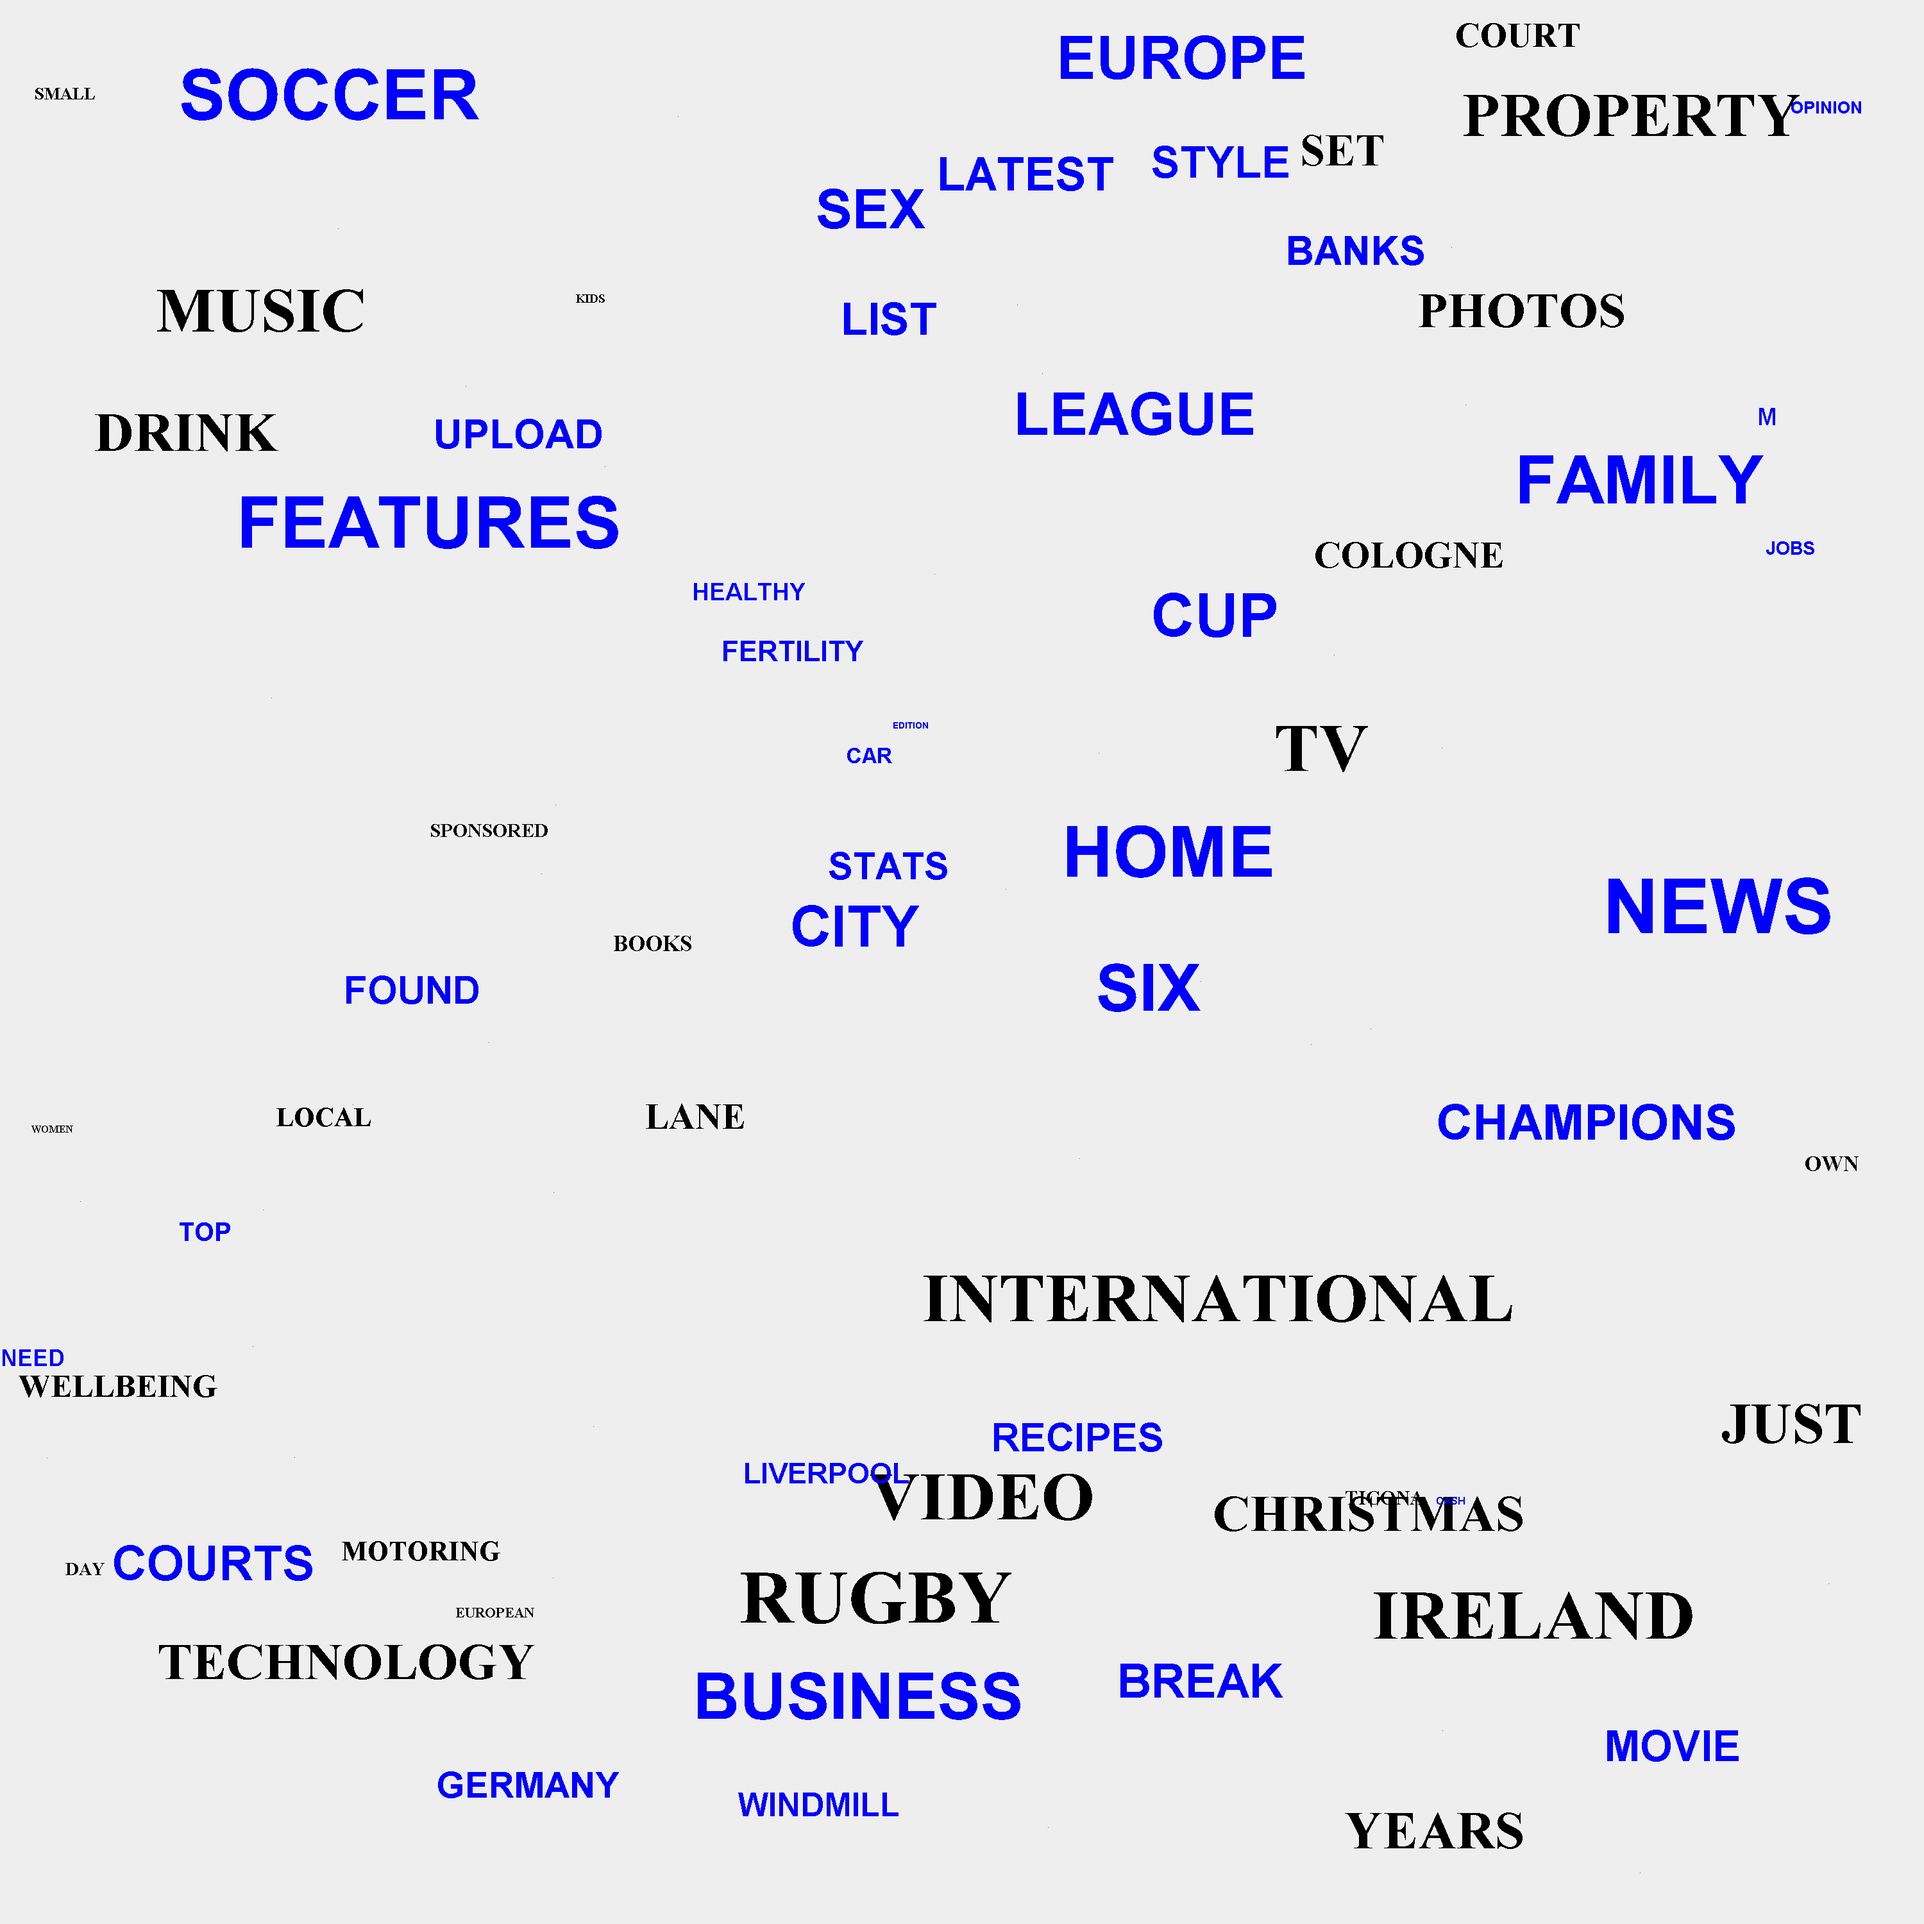
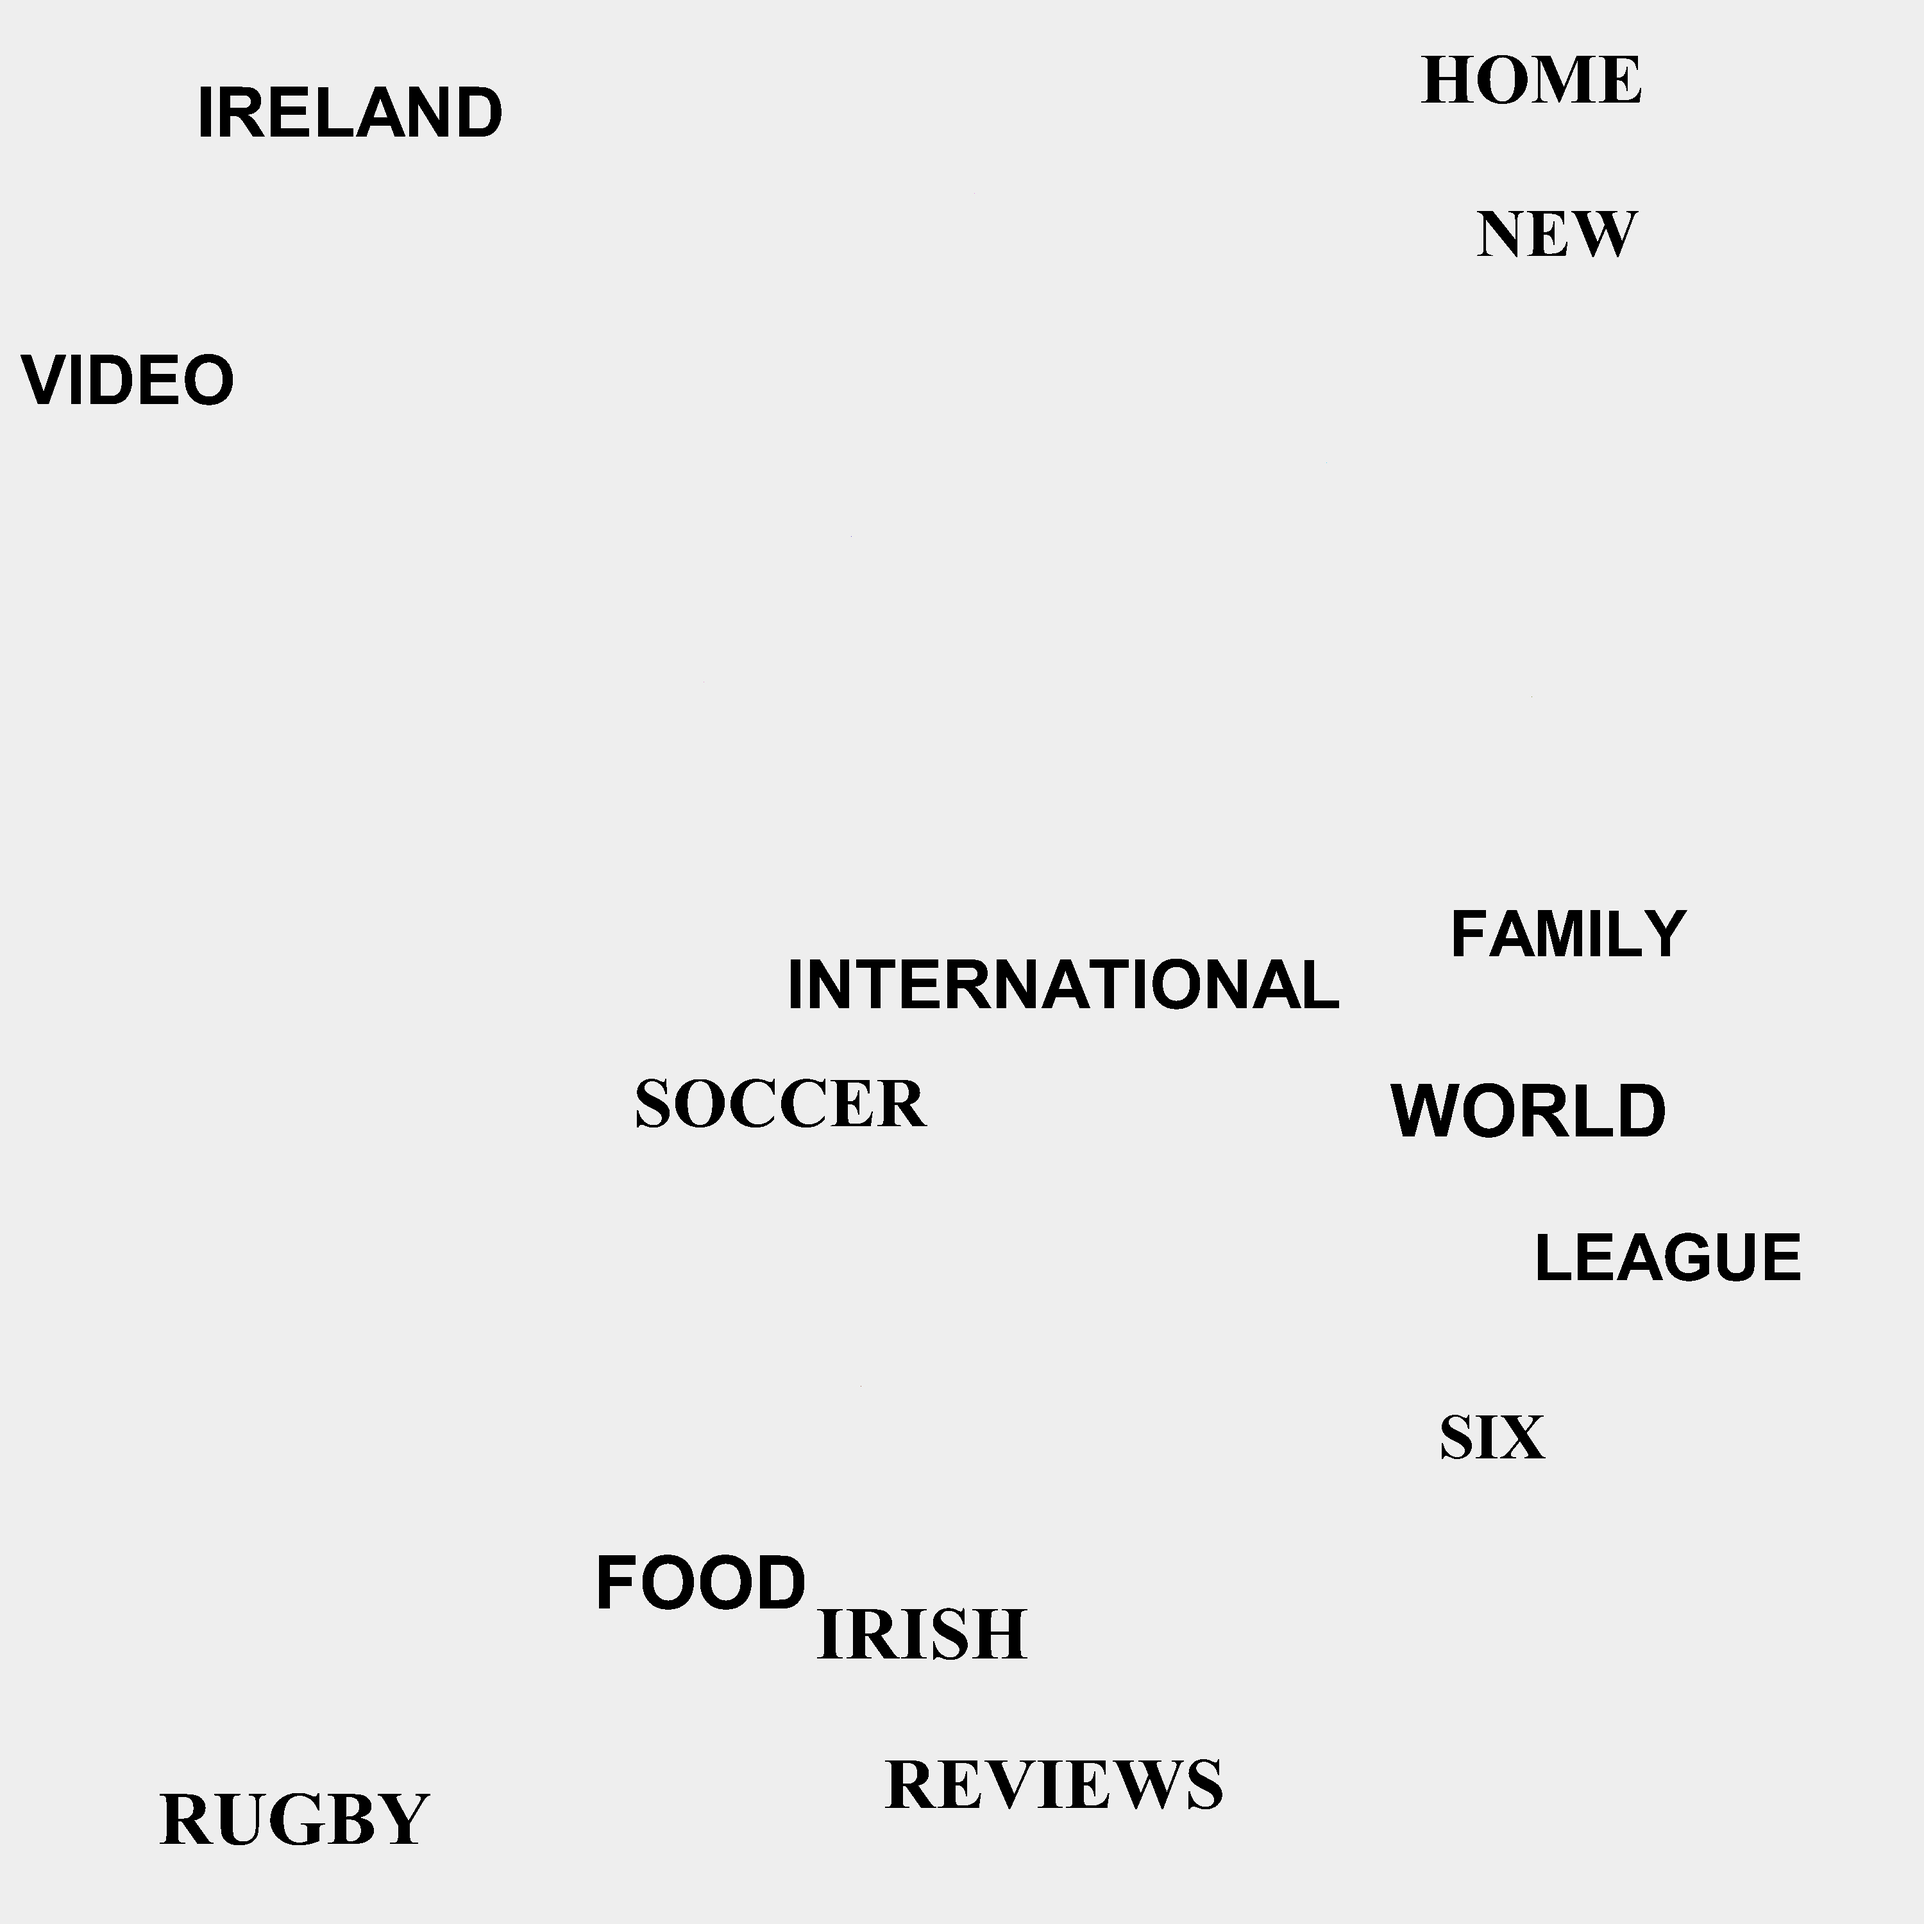
Still looking commit

diff --git a/src/ie/gmit/sw/WordCloud.java b/src/ie/gmit/sw/WordCloud.java
@@ -12,9 +12,11 @@ import java.util.ArrayList;
 import java.util.Random;
 
 import javax.imageio.ImageIO;
+import javax.swing.plaf.synth.SynthSeparatorUI;
 
 import ie.gmit.sw.words.Bounds;
 import ie.gmit.sw.words.SingleWordFactory;
+import ie.gmit.sw.words.WordType;
 import ie.gmit.sw.words.Wordable;
 
 public class WordCloud 
@@ -22,6 +24,7 @@ public class WordCloud
 	private ArrayList<Bounds> boundsList;
 	private int ImageDimension = 3000;
 	private int fontSize = 120;
+	private Color currentColor;
 	
 	public WordCloud(ArrayList words) throws IOException
 	{
@@ -60,10 +63,9 @@ public class WordCloud
 			
 			Wordable word = SingleWordFactory.getInstance().CreateWord(currBounds, currWord, fontSize);
 			
-			//System.out.println(word.getColor());
-	
+			graphics.setColor(word.getColor());
+			
 			graphics.setFont(word.getFont());
-			graphics.setColor(word.getColor());	
 			
 			graphics.drawString(word.getText(), word.getBounds().getX(), word.getBounds().getY());			
 	
@@ -77,10 +79,12 @@ public class WordCloud
 			
 			++wordCount;
 		}		
-				
+	
+		graphics.dispose();
+		
 		ImageIO.write(image, "png", new File("image.png"));
 		
-		System.out.println("\nFinished");
+		System.out.println("\nFinished: " + wordCount);
 	}
 	
 	private boolean CheckBounds(Bounds checkMe)
@@ -111,5 +115,38 @@ public class WordCloud
 		}
 						
 		return new Bounds(wid,hi,x,y);		
+	}
+
+	private Color RandomColor() 
+	{		
+		Random random = new Random();
+		Color []color = {
+				Color.RED,
+				Color.BLUE,
+				Color.GREEN,
+				Color.CYAN,
+				Color.PINK,
+				Color.ORANGE
+	        };
+				
+		int pos = random.nextInt(color.length);
+			
+		Color selected = color[pos];
+		
+		System.out.println("Here: " + selected + " " + pos);
+		
+		return Color.ORANGE;
+	}
+	
+	private Color randomColor()
+	{
+		Random random = new Random();
+		
+		int R = random.nextInt(256);
+		int G = random.nextInt(256);
+		int B= random.nextInt(256);
+		int A=  256;
+		
+		return new Color(R, G, B);
 	}
 }

diff --git a/src/ie/gmit/sw/words/WordFunny.java b/src/ie/gmit/sw/words/WordFunny.java
@@ -11,13 +11,15 @@ public class WordFunny implements Wordable
 	private Font font;
 	private String text;
 	private int size;
-
-	public WordFunny(Bounds bounds,String text,int size)
+	private WordType wt;
+	
+	public WordFunny(Bounds bounds,String text,int size,WordType wt)
 	{
 		this.bounds = bounds;
 		this.text = text;
-		this.color = RandomColor();
+		this.color = Color.black;
 		this.font = new Font(Font.SANS_SERIF, Font.BOLD, getSize());
+		this.wt = wt;
 	}
 	
 	public Bounds getBounds() {
@@ -28,23 +30,24 @@ public class WordFunny implements Wordable
 		this.bounds = bounds;
 	}
 
-	public Color getColor() 
-	{
-		return this.color;		
+	public WordType getWt() {
+		return wt;
 	}
 
-	public Color RandomColor() 
-	{		
+	public void setWt(WordType wt) {
+		this.wt = wt;
+	}
+
+	public Color getColor() 
+	{
 		Random random = new Random();
-		Color color;	
-				
-		int red = random.nextInt(256);
-		int green = random.nextInt(256);
-		int blue = random.nextInt(256);
 		
-		color = new Color(red,green,blue);
-			
-		return color;
+		int R = random.nextInt(256);
+		int G = random.nextInt(256);
+		int B= random.nextInt(256);
+		int A=  256;
+		
+		return new Color(R, G, B);
 	}
 
 	public void setColor(Color color) {

diff --git a/src/ie/gmit/sw/words/SingleWordFactory.java b/src/ie/gmit/sw/words/SingleWordFactory.java
@@ -20,15 +20,15 @@ public class SingleWordFactory
     public Wordable CreateWord(Bounds bounds,String text,int size)
     {
     	WordType wt = WordType.getRandomWordType();
-    	
+    	    	
     	++count;
    
     	if (wt == WordType.BASIC)
-    	  return new WordBasic(bounds, text,size);
+    	  return new WordBasic(bounds, text,size,WordType.BASIC);
 	    else if (wt == WordType.FANCY)
-	      return new WordFancy(bounds, text,size);
+	      return new WordFancy(bounds, text,size,WordType.FANCY);
 	    else if (wt == WordType.FUNNY)
-	      return new WordFunny(bounds, text,size);
+	      return new WordFunny(bounds, text,size,WordType.FUNNY);
     	 
     	return null;    	
     }

diff --git a/src/ie/gmit/sw/words/WordFancy.java b/src/ie/gmit/sw/words/WordFancy.java
@@ -10,14 +10,24 @@ public class WordFancy implements Wordable
 	private Font font;
 	private String text;
 	private int size;
-	
-	public WordFancy(Bounds bounds,String text,int size)
+	private WordType wt;
+
+	public WordFancy(Bounds bounds,String text,int size,WordType wt)
 	{
 		this.bounds = bounds;
 		this.text = text;
 		this.size = size;
-		this.color = Color.blue;
+		this.color = Color.black;
 		this.font = new Font(Font.SANS_SERIF, Font.BOLD, getSize());
+		this.wt = wt;
+	}
+	
+	public WordType getWt() {
+		return this.wt;
+	}
+
+	public void setWt(WordType wt) {
+		this.wt = wt;
 	}
 	
 	public Bounds getBounds() {

diff --git a/src/ie/gmit/sw/words/WordBasic.java b/src/ie/gmit/sw/words/WordBasic.java
@@ -10,14 +10,24 @@ public class WordBasic implements Wordable
 	private Font font;
 	private String text;
 	private int size;
+	private WordType wt;
 
-	public WordBasic(Bounds bounds,String text,int size)
+	public WordBasic(Bounds bounds,String text,int size,WordType wt)
 	{
 		this.bounds = bounds;
 		this.text = text;
 		this.size = size;
 		this.color = Color.black;
 		this.font = new Font(Font.SERIF, Font.BOLD, getSize());
+		this.wt = wt;
+	}
+
+	public WordType getWt() {
+		return this.wt;
+	}
+
+	public void setWt(WordType wt) {
+		this.wt = wt;
 	}
 	
 	public Bounds getBounds() {

diff --git a/src/ie/gmit/sw/Globals.java b/src/ie/gmit/sw/Globals.java
@@ -11,7 +11,7 @@ public class Globals
    private String backUpStopwords = "txt/stopwords.txt";
    private String backUpWordCloud = "txt/warandpeace.txt";
    
-   private int WordLimit = 100;
+   private int WordLimit = 20;
    
    public static Globals getInstance()
    {

diff --git a/src/ie/gmit/sw/words/Wordable.java b/src/ie/gmit/sw/words/Wordable.java
@@ -14,5 +14,7 @@ public interface Wordable
 	public String getText();
 	public void setSize(int size);
 	public int getSize();
-	public void setText(String text);
+	public void setText(String text);	
+	public WordType getWt();
+	public void setWt(WordType wt);
 }
